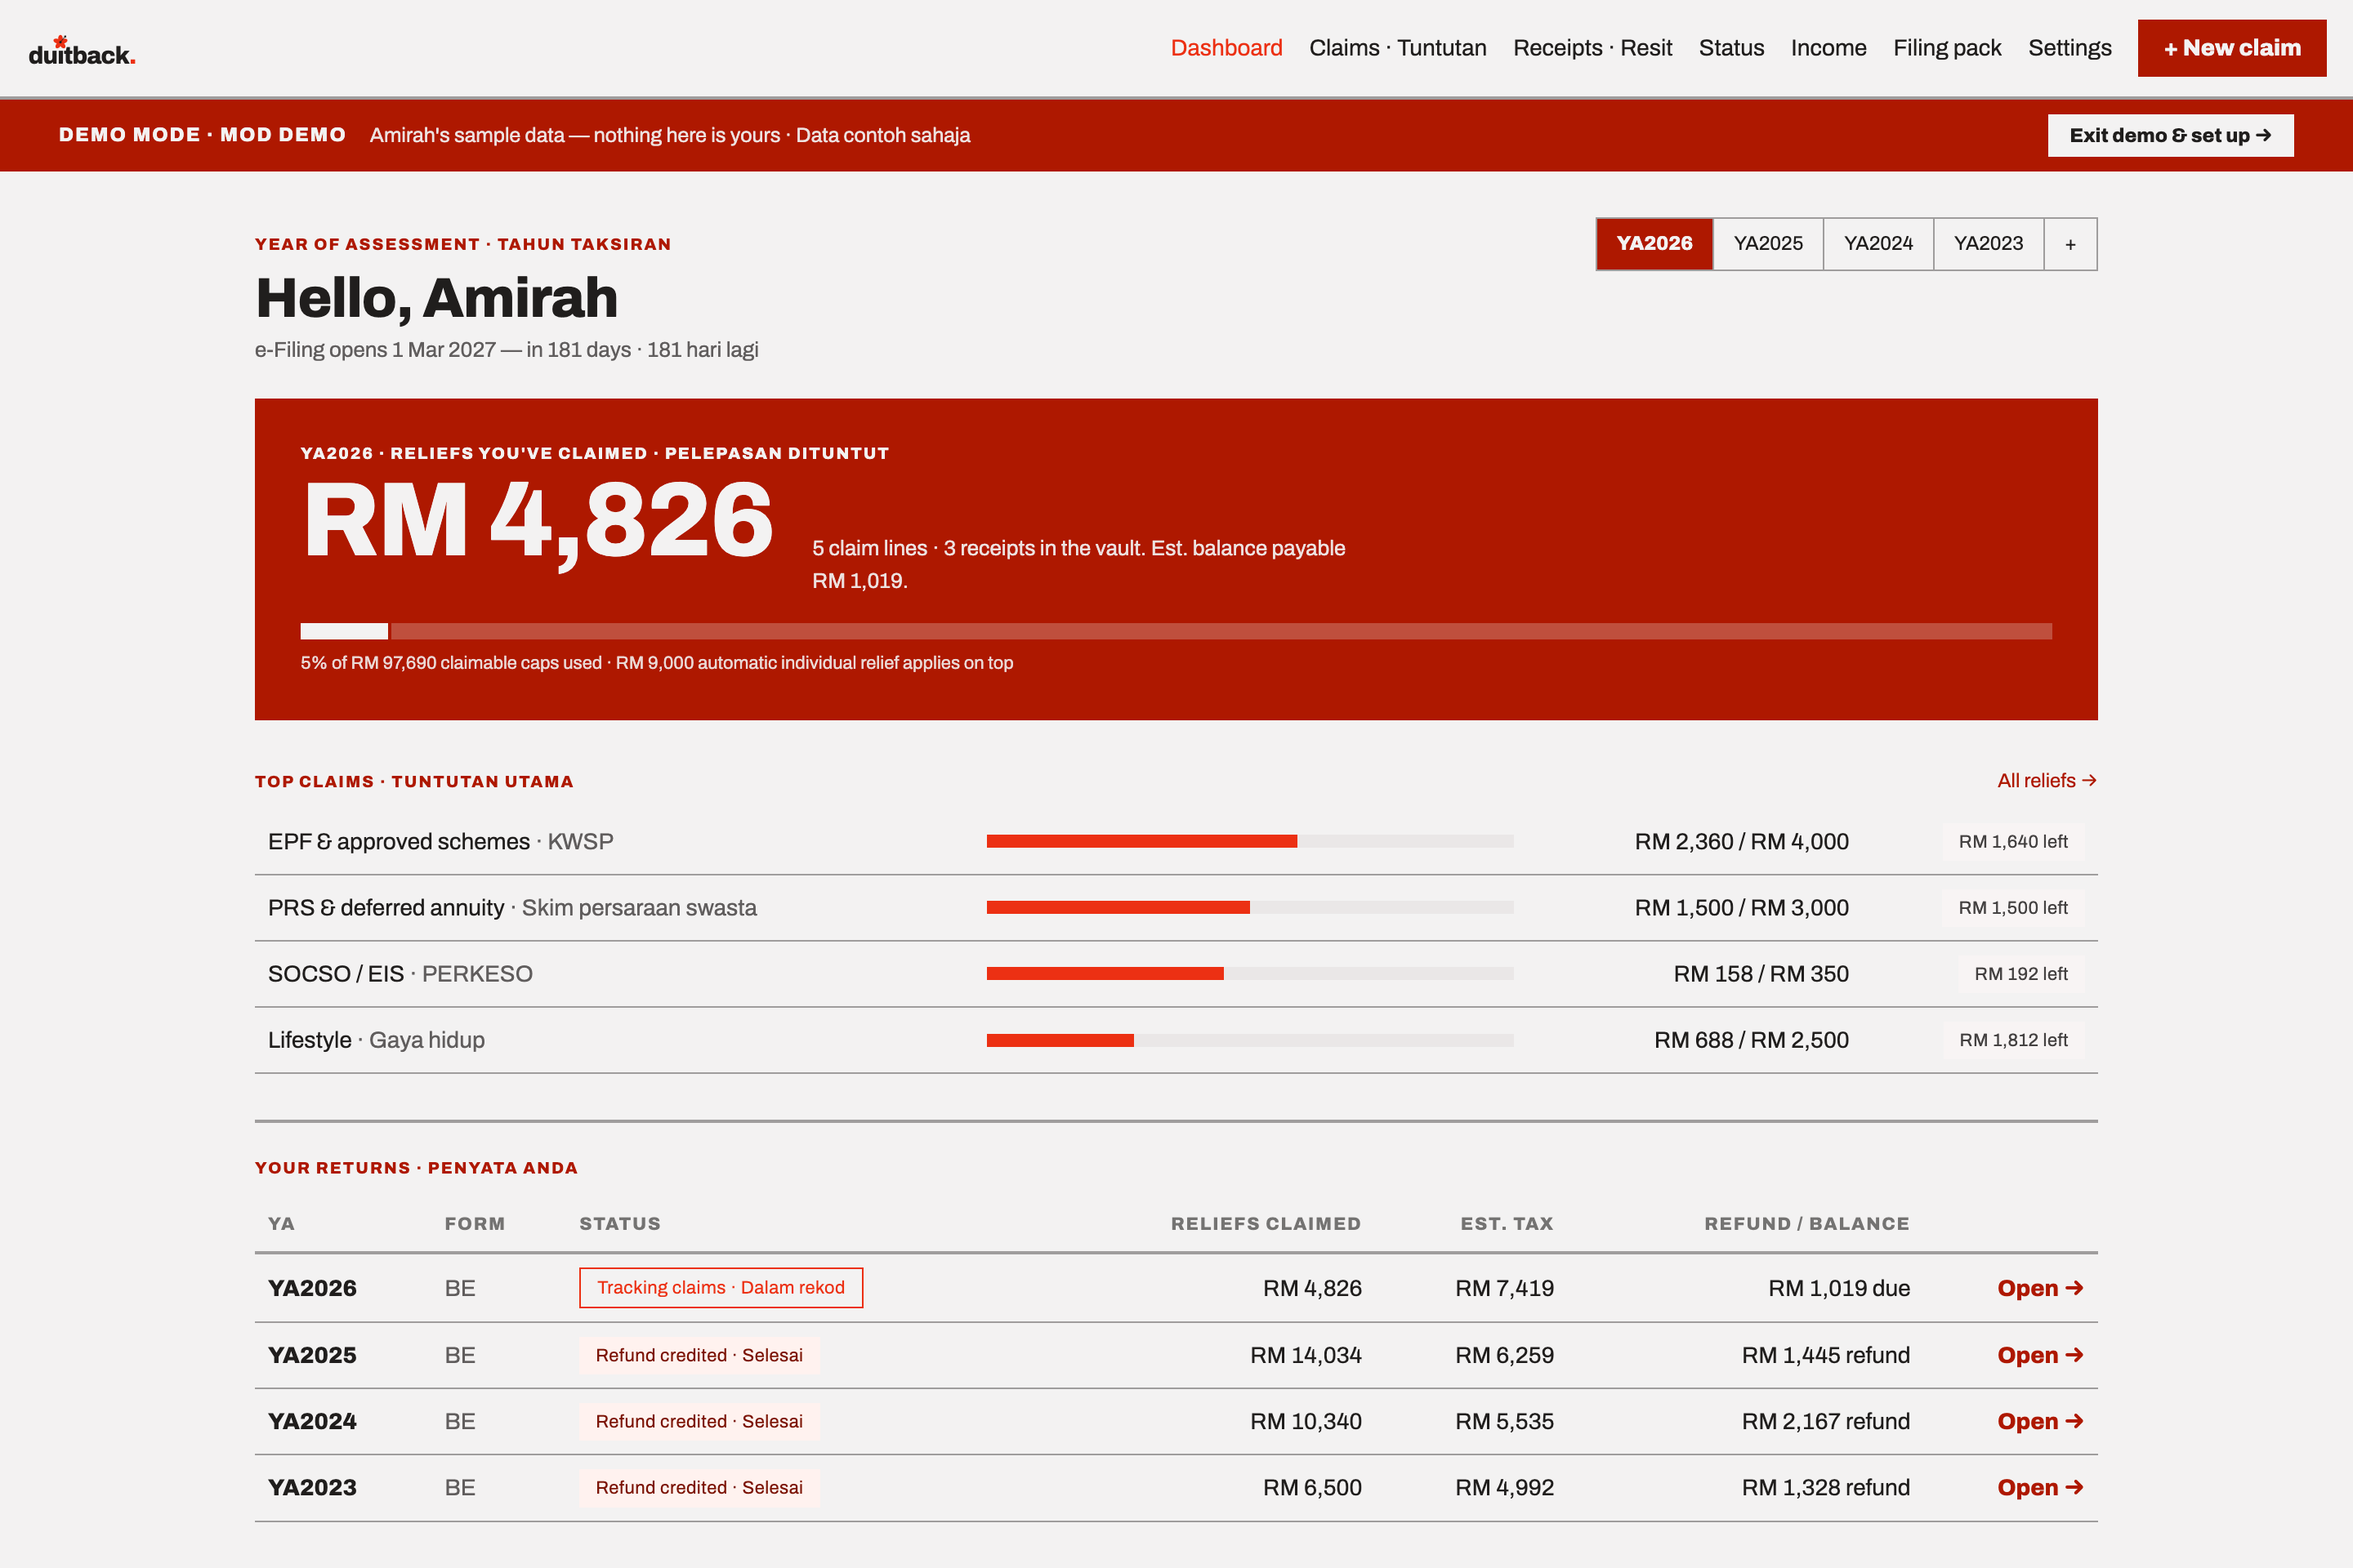
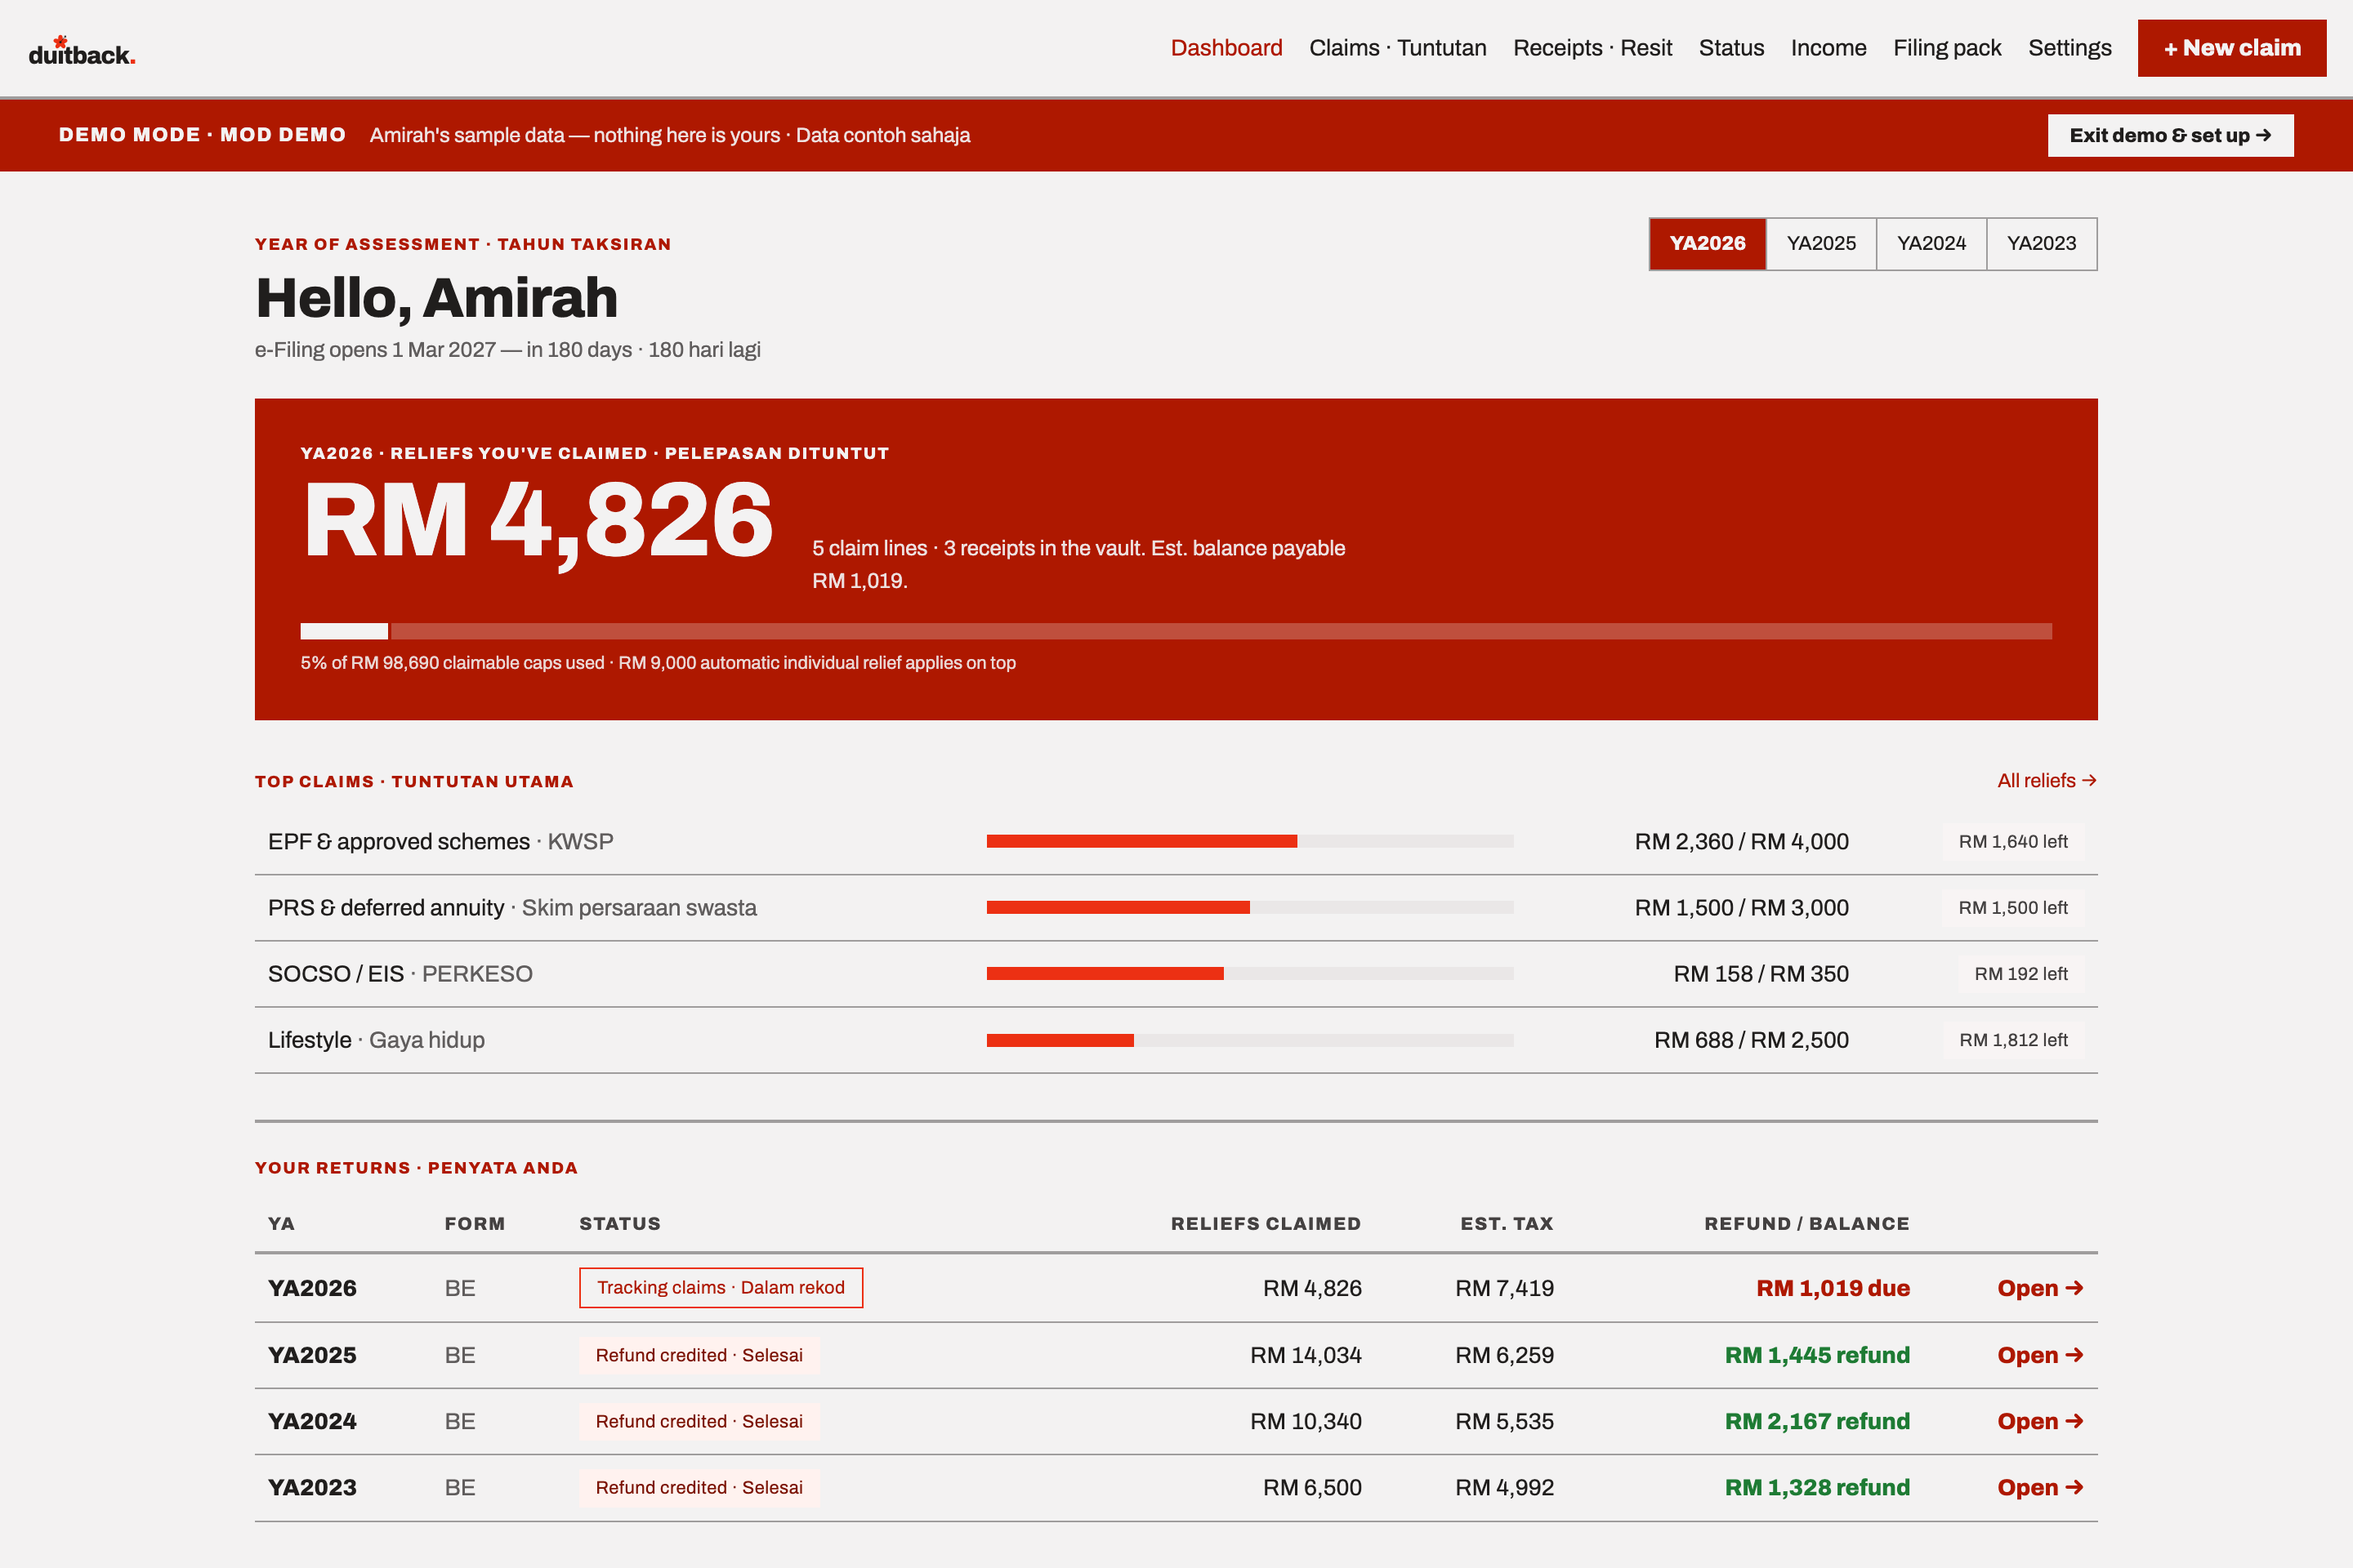
Refund reads green, balance payable reads red across pack (screen and print), income, status and dashboard; refresh landing screenshot

diff --git a/app/app/tracker.css b/app/app/tracker.css
@@ -247,6 +247,9 @@ a{color:var(--color-accent-700)}a:hover{color:var(--color-accent-800)}
 .bm{color:var(--color-neutral-700);font-weight:400}
 .kick{font-size:10px;letter-spacing:.1em;text-transform:uppercase;color:var(--color-accent-700);font-family:var(--font-heading);font-weight:800}
 .navlink{cursor:pointer;user-select:none}
+/* money semantics: what you owe reads red, what comes back reads green */
+.amt-due{color:var(--color-accent-700)}
+.amt-refund{color:var(--color-ok)}
 /* app header: brand · screen links · New claim. Wide: one flex row. Narrow (≤960px): brand and
    button share the first row, the links become a single scrollable strip beneath. */
 .nav-links { display: flex; align-items: center; gap: var(--space-4); }
@@ -298,7 +301,10 @@ a{color:var(--color-accent-700)}a:hover{color:var(--color-accent-800)}
   .pack-glance .k { font-size: 6.5pt; letter-spacing: .1em; text-transform: uppercase; color: #ae1800; font-family: var(--font-heading); font-weight: 800; min-height: 17pt; } /* two-line labels keep values on one baseline */
   .pack-glance .v { font-family: var(--font-heading); font-weight: 800; font-size: 12pt; margin-top: 2pt; white-space: nowrap; }
   .pack-glance .hero { background: #111; color: #fff; -webkit-print-color-adjust: exact; print-color-adjust: exact; }
-  .pack-glance .hero .k { color: #ffb3a3; }
+  .pack-glance .hero.due { background: #ae1800; }
+  .pack-glance .hero.refund { background: #1e7b34; }
+  .pack-glance .hero .k { color: rgba(255, 255, 255, .75); }
+  .pack .table tr.total td.amt-due, .pack .table tr.total td.amt-refund { -webkit-print-color-adjust: exact; print-color-adjust: exact; }
   /* sections */
   .pack .sec { font-size: 7.5pt; letter-spacing: .14em; color: #ae1800; margin: 7mm 0 2mm !important; break-after: avoid; }
   .pack .table { font-size: 9.5pt !important; }

diff --git a/components/tracker/FilingPack.tsx b/components/tracker/FilingPack.tsx
@@ -53,7 +53,7 @@ export function FilingPack({ api, c }: { api: Api; c: CalcResult }) {
         <div><div className="k">Chargeable</div><div className="v mono">{fmt(c.chargeable)}</div></div>
         <div><div className="k">Tax after rebates</div><div className="v mono">{fmt(c.taxNet)}</div></div>
         <div><div className="k">Already paid</div><div className="v mono">{fmt(c.paid)}</div></div>
-        <div className="hero"><div className="k">{refund ? 'Est. refund · Bayaran balik' : 'Est. balance · Baki'}</div><div className="v mono">{fmt(Math.abs(c.balance))}</div></div>
+        <div className={'hero ' + (refund ? 'refund' : 'due')}><div className="k">{refund ? 'Est. refund · Bayaran balik' : 'Est. balance · Baki'}</div><div className="v mono">{fmt(Math.abs(c.balance))}</div></div>
       </div>
 
       <hr className="hr" />
@@ -108,7 +108,7 @@ export function FilingPack({ api, c }: { api: Api; c: CalcResult }) {
           <tr><td>Tax on chargeable income · Cukai</td><td style={right} className="mono">{fmt(c.taxGross)}</td></tr>
           <tr><td>Less rebates &amp; zakat · Tolak rebat dan zakat</td><td style={right} className="mono">− {fmt(c.rebate + c.zakatRebate)}</td></tr>
           <tr><td>Already paid (PCB + CP500) · Telah dibayar</td><td style={right} className="mono">− {fmt(c.paid)}</td></tr>
-          <tr className="total"><td style={heading800}>{balLabel}</td><td style={{ ...right, ...heading800 }} className="mono">{fmt(Math.abs(c.balance))}</td></tr>
+          <tr className="total"><td style={heading800} className={refund ? 'amt-refund' : 'amt-due'}>{balLabel}</td><td style={{ ...right, ...heading800 }} className={'mono ' + (refund ? 'amt-refund' : 'amt-due')}>{fmt(Math.abs(c.balance))}</td></tr>
         </tbody>
       </table>
       </div>

diff --git a/components/tracker/StatusScreen.tsx b/components/tracker/StatusScreen.tsx
@@ -74,7 +74,7 @@ export function StatusScreen({ api, c, demo }: { api: Api; c: CalcResult; demo: 
       <div style={{ display: 'grid', gridTemplateColumns: 'repeat(auto-fit,minmax(220px,1fr))', gap: 2, background: 'var(--color-divider)', border: '2px solid var(--color-divider)', marginTop: 24 }}>
         <div style={{ background: 'var(--color-surface)', padding: 16 }}>
           <Kick style={{ color: 'var(--color-neutral-700)' }}>{c.balance < 0 ? 'Est. refund · Bayaran balik' : 'Est. balance payable · Baki'}</Kick>
-          <div style={{ ...heading800, fontSize: 28, marginTop: 4 }} className="mono">{c.totalIncome ? fmt(Math.abs(c.balance)) : '—'}</div>
+          <div style={{ ...heading800, fontSize: 28, marginTop: 4 }} className={'mono ' + (c.balance < 0 ? 'amt-refund' : 'amt-due')}>{c.totalIncome ? fmt(Math.abs(c.balance)) : '—'}</div>
           <div style={{ fontSize: 12 }} className="text-muted">paid {fmt(c.paid)} (PCB + CP500) vs net tax {fmt(c.taxNet)}</div>
         </div>
         <div style={{ background: 'var(--color-surface)', padding: 16 }}>

diff --git a/components/tracker/Dashboard.tsx b/components/tracker/Dashboard.tsx
@@ -148,7 +148,7 @@ export function Dashboard({ api, c }: { api: Api; c: CalcResult }) {
                   <td><span className={'tag ' + tagCls}>{label}</span></td>
                   <td style={right} className="mono">{fmt(Math.max(0, cy.totalAllowed - 9000))}</td>
                   <td style={right} className="mono">{cy.totalIncome ? fmt(cy.taxNet) : '—'}</td>
-                  <td style={right} className="mono">{cy.totalIncome ? (cy.balance < 0 ? fmt(-cy.balance) + ' refund' : fmt(cy.balance) + ' due') : '—'}</td>
+                  <td style={{ ...right, fontWeight: 700 }} className={'mono ' + (cy.balance < 0 ? 'amt-refund' : 'amt-due')}>{cy.totalIncome ? (cy.balance < 0 ? fmt(-cy.balance) + ' refund' : fmt(cy.balance) + ' due') : '—'}</td>
                   <td style={right}>
                     <button className="navlink linkbtn" onClick={() => { mut((x) => { x.ya = y; }); go('claims'); }} style={heading800}>Open →</button>
                   </td>

diff --git a/components/tracker/Income.tsx b/components/tracker/Income.tsx
@@ -160,7 +160,7 @@ export function Income({ api, c }: { api: Api; c: CalcResult }) {
           </table>
           </div>
 
-          <div style={{ background: c.balance < 0 ? 'var(--color-neutral-900)' : 'var(--color-accent-700)', color: 'var(--color-bg)', padding: 16, marginTop: 16 }}>
+          <div style={{ background: c.balance < 0 ? 'var(--color-ok)' : 'var(--color-accent-700)', color: 'var(--color-bg)', padding: 16, marginTop: 16 }}>
             <div style={{ fontSize: 10, letterSpacing: '.1em', textTransform: 'uppercase', ...heading800 }}>
               {c.balance < 0 ? 'Estimated refund · Anggaran bayaran balik' : 'Estimated balance payable · Anggaran baki'}
             </div>

diff --git a/app/ds.css b/app/ds.css
@@ -8,6 +8,8 @@
   --color-accent: #ec3013;
   --color-accent-2: #e15b47;
   --color-divider: color-mix(in srgb, #201e1d 40%, transparent);
+  --color-ok: #1e7b34;       /* refund green — 4.6:1 on the page ground, 5.1:1 with white text */
+  --color-ok-100: #e6f4ea;
 
   /* Tonal ramps — generated in OKLCH on one shared lightness scale, so the
      same step of any role matches the others in visual value. */
